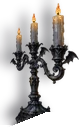
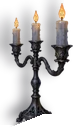
Castle: candelabras shown from the front in the Emporium and on the phone chimney
- Emporium pictures for the four candelabras are frontal: silver, black wax and skull from the earlier set, silver five-arm newly made in Canva
- Phone chimney shows the same frontal picture
- Desktop mantel and shelf keep candelabras turned along the side wall, using side pictures of the same designs
- Frontal and side candelabra source pictures restored

diff --git a/scripts/build-castle-art.py b/scripts/build-castle-art.py
@@ -303,10 +303,11 @@ ITEMS = {
     "chandelierCrystal": ("chandelier-crystal.png", "chandelier", True),
     # candelabras live on the shelf and mantel only; drawn from the side and
     # slightly from below, because both ledges are above eye level
-    "candelabraSilver": ("grand-silver3.png", "standing", True),
-    "candelabraBlackWax": ("grand-black5.png", "standing", True),
-    "candelabraSkull": ("grand-skulls.png", "standing", True),
-    "candelabraSilverFive": ("grand-silver5.png", "standing", True),
+    # frontal pictures: the Emporium and the phone chimney show them face on (Lena, 2026-10-14)
+    "candelabraSilver": ("candelabra-silver.png", "standing", True),
+    "candelabraBlackWax": ("candelabra-blackwax.png", "standing", True),
+    "candelabraSkull": ("candelabra-skull.png", "standing", True),
+    "candelabraSilverFive": ("candelabra-silverfive.png", "standing", True),
     # candle groups: round, so they look right from any side; drawn seen
     # from slightly below for the high shelf and mantel
     "candlesSkull": ("candles-skull.png", "standing", True),
@@ -393,8 +394,12 @@ def mantel_edge(x):
     return 304 - 0.233 * (np.asarray(x, float) - 1380)
 
 
-LEDGE_SIDE_FILE = {k: ITEMS[k][0] for k in ("candelabraSilver", "candelabraBlackWax",
-                                            "candelabraSkull", "candelabraSilverFive")}
+# On the computer the mantel and shelf run along the side wall: candelabras stand
+# turned along it, so the room uses side pictures of the same candelabras.
+LEDGE_SIDE_FILE = {"candelabraSilver": "candelabra-silver-side.png",
+                   "candelabraBlackWax": "candelabra-blackwax-side.png",
+                   "candelabraSkull": "candelabra-skull-side.png",
+                   "candelabraSilverFive": "grand-silver5.png"}
 LEDGES = {"shelf": (1262, shelf_edge, 125, 0.55), "mantel": (1440, mantel_edge, 180, 0.60)}
 LEDGE_GLOW = {"shelf": 150, "mantel": 180}
 LEDGE_SHADOW = (-9, -3)                # candelabra's shadow on the wall behind: the wall runs away from us
@@ -932,6 +937,7 @@ if PHONE:
     LEDGES = {"mantel": (475, mantel_edge, 150, 0.60)}
     LEDGE_GLOW = {"mantel": 150}
     LEDGE_SHADOW = (0, 3)               # the chimney faces us: the shadow falls straight behind
+    LEDGE_SIDE_FILE = {k: ITEMS[k][0] for k in LEDGE_SIDE_FILE}   # face on, as in the Emporium
     FIRE = (478, 1292, 118)
     FIRE_SPILL = 0                      # the fire faces the room: its spill comes straight towards us
     FIRE_OPENING = [(390, 1302), (390, 1118), (410, 1102), (478, 1094), (548, 1102), (571, 1118), (571, 1302)]
